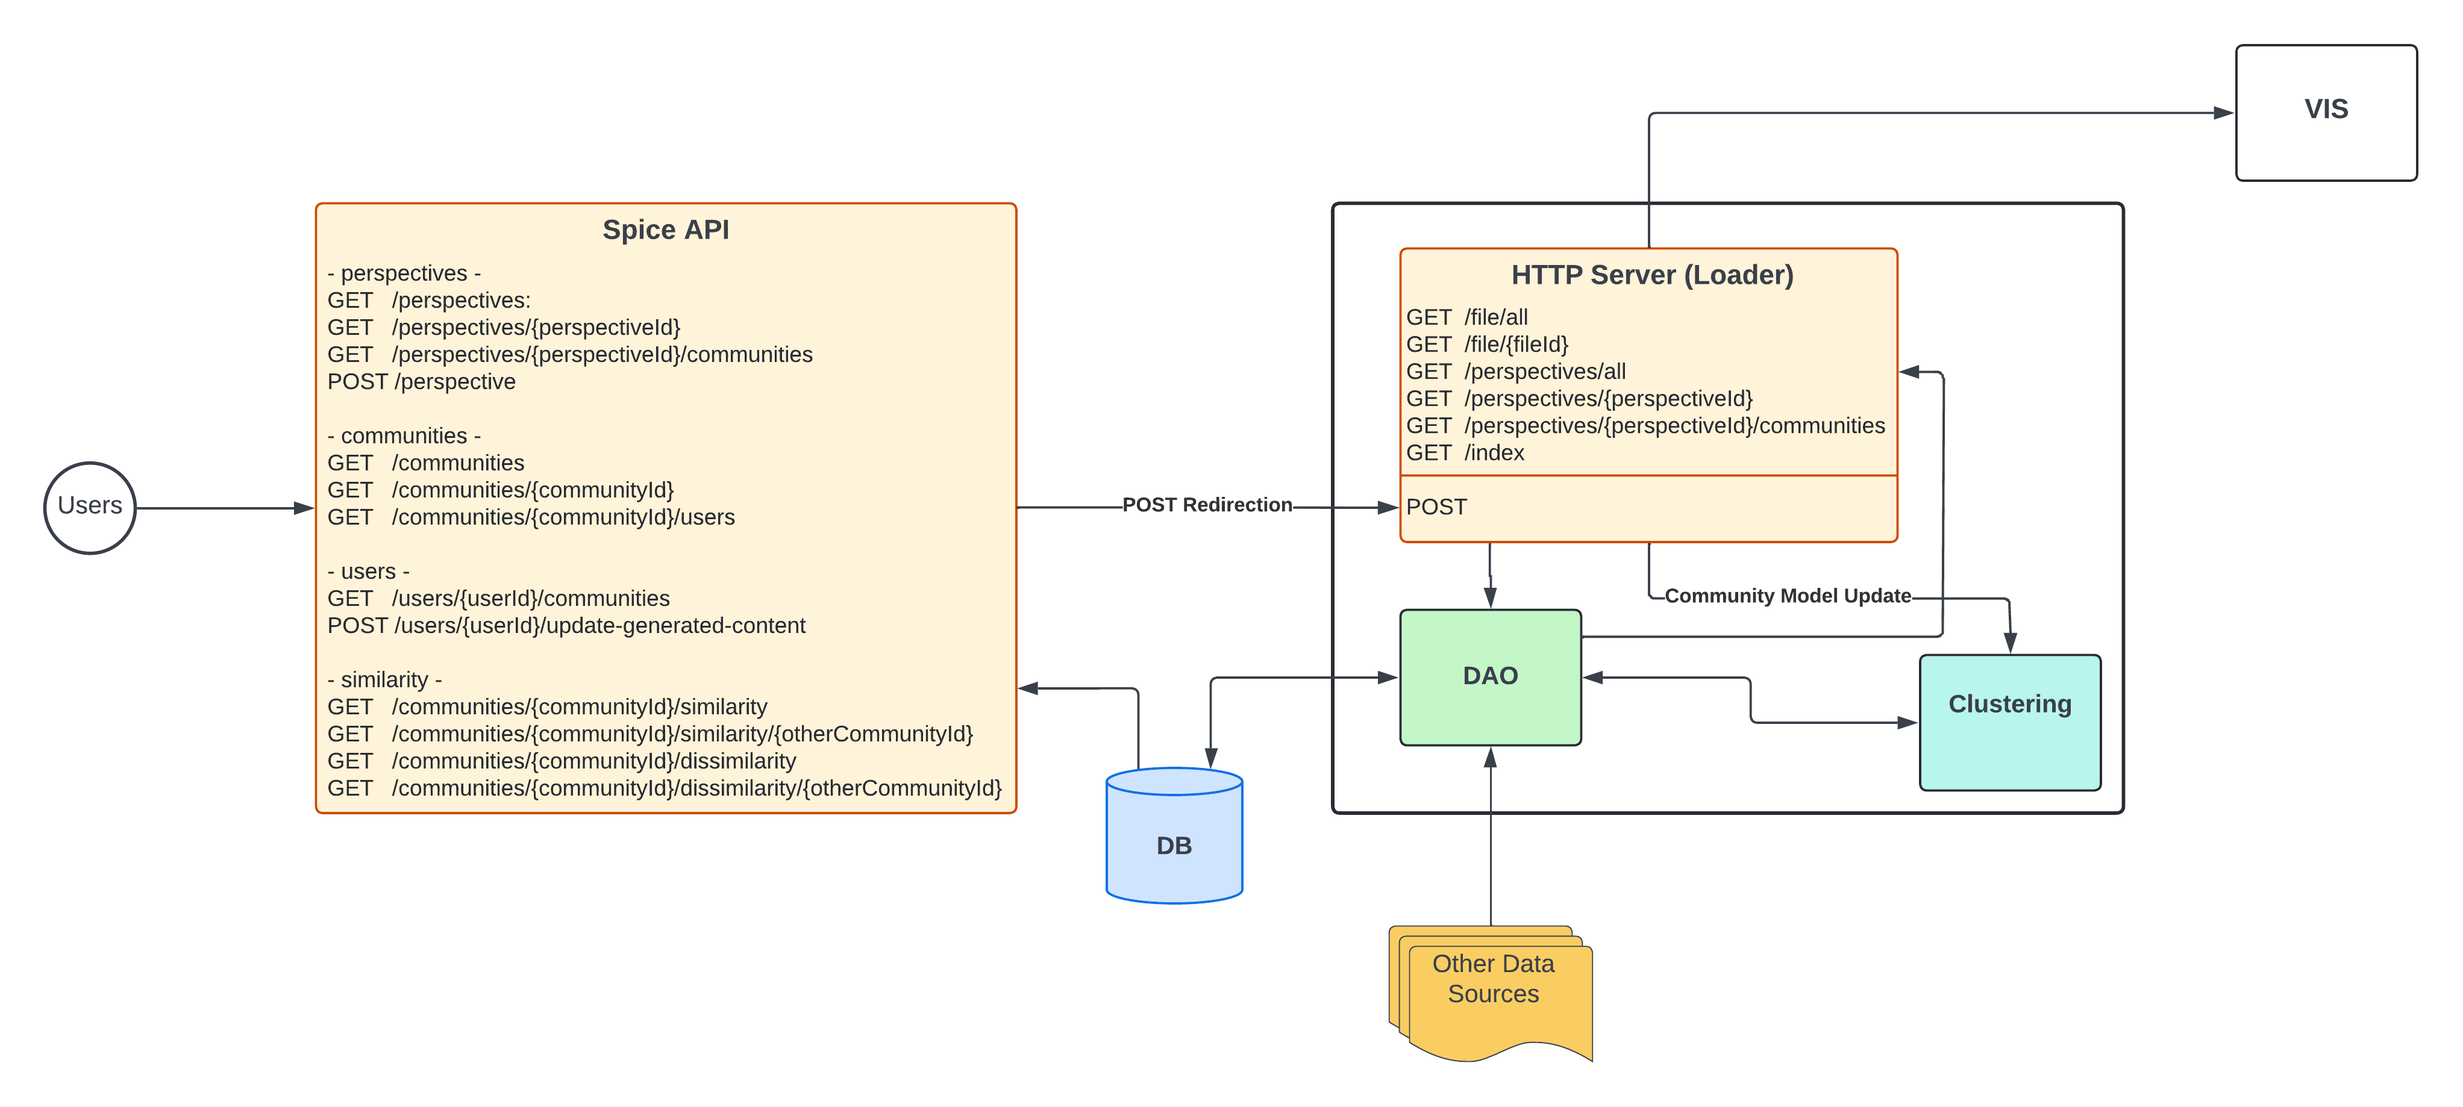
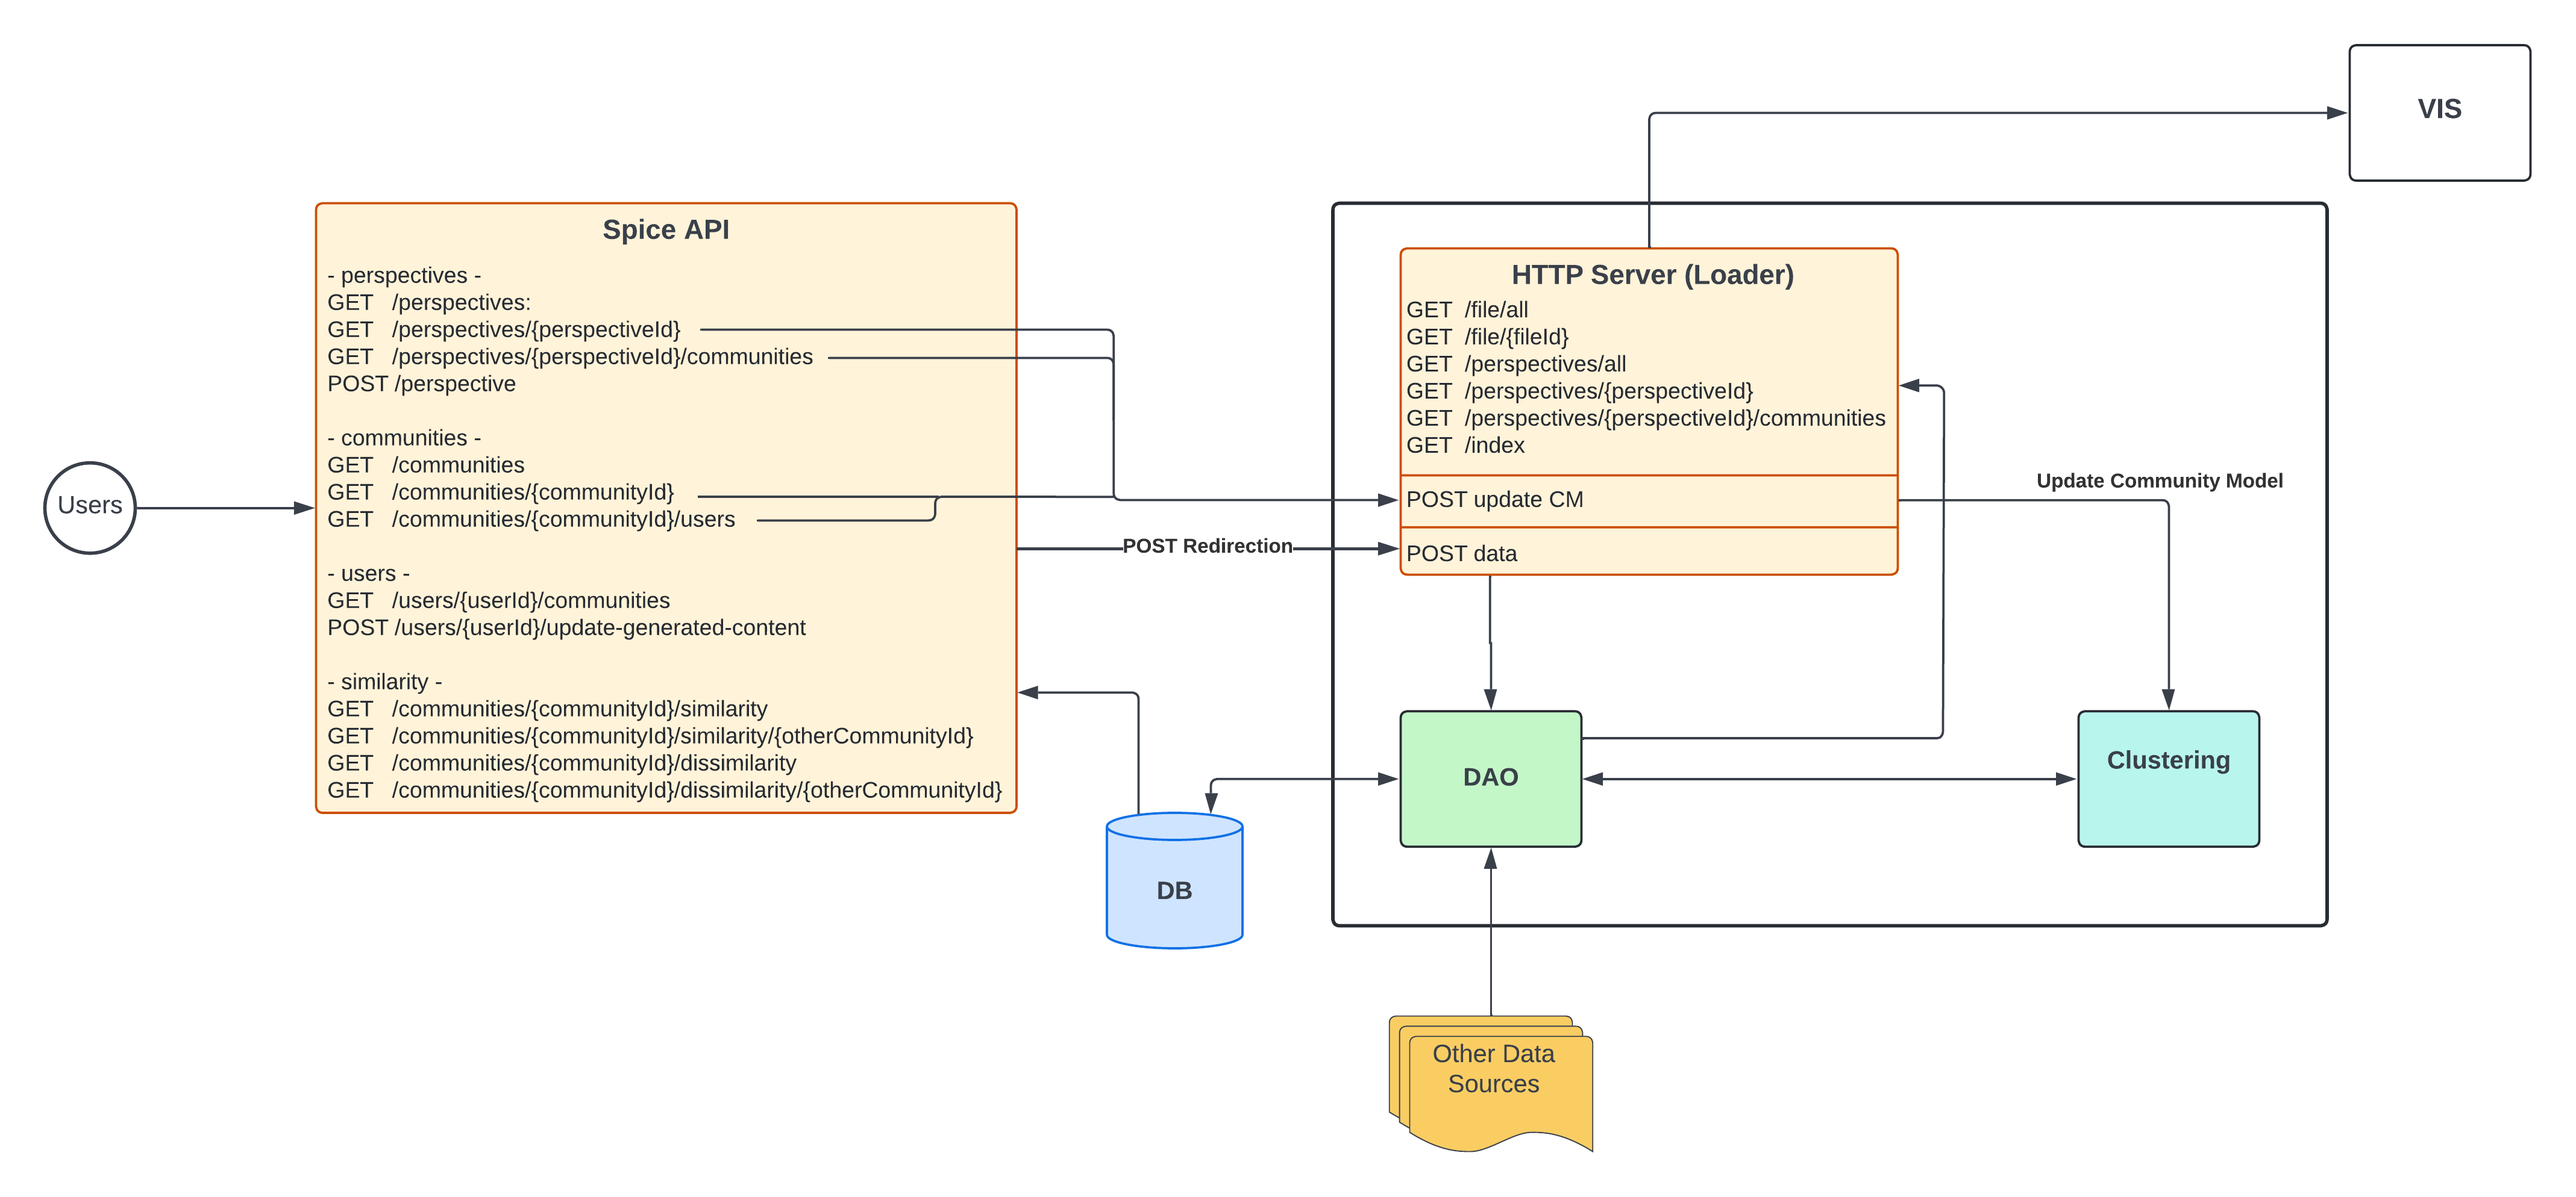
redirect post for update cm

diff --git a/dao/api_server.py b/dao/api_server.py
@@ -37,7 +37,7 @@ class Handler(BaseHTTPRequestHandler):
         logging.info("GET request,\nPath: %s\nHeaders:\n%s\n", str(self.path), str(self.headers))
         try:
             request = self.path.split("/")
-            print("Request: ", request)
+            print("Request GET: ", request)
             first_arg = request[1]
             if first_arg == "file":
                 self.__getFile(request[2])
@@ -51,6 +51,7 @@ class Handler(BaseHTTPRequestHandler):
                 self.wfile.write(
                     "-Error-\nThis GET request is not defined.\nGET request for {}".format(self.path).encode('utf-8'))
         except Exception as e:
+            print("-Error-")
             print(e)
             if str(e) != "pymongo.errors.ServerSelectionTimeoutError":
                 self.__set_response(500)
@@ -72,7 +73,7 @@ class Handler(BaseHTTPRequestHandler):
                      str(self.path), str(self.headers), post_data.decode('utf-8'))
         ok = False
         request = self.path.split("/")
-        print("Request: ", request)
+        print("Request POST: ", request)
         first_arg = request[1]
         if first_arg == "perspective":
             perspective = loads(post_data.decode('utf-8'))
@@ -85,6 +86,12 @@ class Handler(BaseHTTPRequestHandler):
             user = loads(post_data.decode('utf-8'))
             daoUsers = DAO_db_users("localhost", 27018, "spice", "spicepassword")
             ok = daoUsers.insertUser_API(user)
+        elif first_arg == "update_CM":
+            # data = loads(post_data.decode('utf-8'))
+            print("update_CM")
+            # <Update Community Model>
+            # TODO: Hacer Llamada al Community Model
+            # </Update Community Model>
         if ok:
             self.__set_response(204)
             self.wfile.write("POST request for {}".format(self.path).encode('utf-8'))
